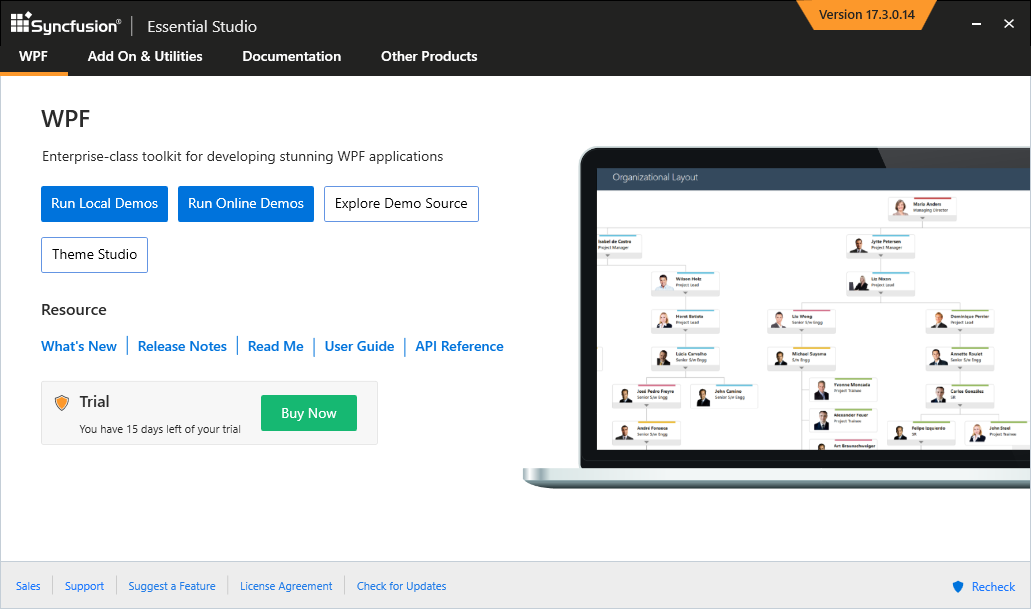
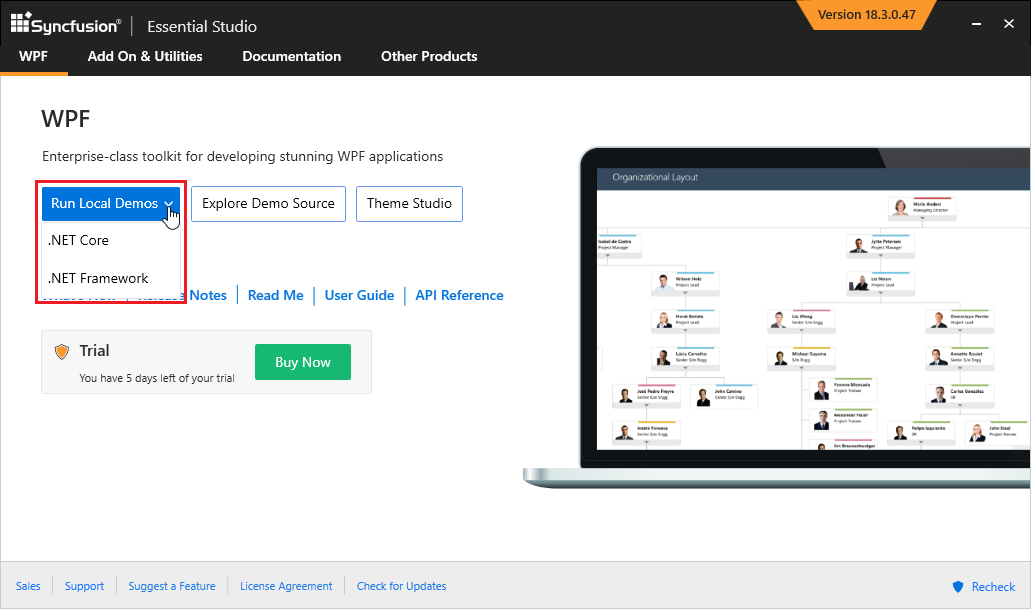
Latest source merged from Syncfusion

Changed region(s): [[0.031, 0.2808, 0.4966, 0.5304], [0.031, 0.5616, 0.4966, 0.7176], [0.7759, 0.0, 0.9001, 0.0312]]

diff --git a/wpf/samples.md b/wpf/samples.md
@@ -7,13 +7,13 @@ control: Featured Samples
 documentation: ug
 ---
 
-# Featured Samples 
+# Featured Samples for Syncfusion WPF Controls
 
 ## Syncfusion WPF Controls Panel
 
 To explore Syncfusion WPF controls and components, Open `Syncfusion WPF Controls Panel` by searching it from start and open. 
 
-![WFP Control Panel Search](Guidetorunthesamples_images/wpf-control-panel-search.png)
+![WPF Control Panel Search](Guidetorunthesamples_images/wpf-control-panel-search.png)
 
 In another way, Open the Control Panel from the following installed location,
 
@@ -25,22 +25,37 @@ N> In above section, Latest Essential Studio version details has been provided. 
 
 ## WPF Sample Browser
 
-To explore the locally installed demos, click `Run Local Demos` which will open `WPF Sample Browser`.
+To explore the locally installed demos, click `Run Local Demos` and select either `.NET Core` or `.NET FrameWork` which will open `WPF Sample Browser`.
 
 ![Syncfusion WPF Sample Browser](Guidetorunthesamples_images/syncfusion-wpf-sample-browser.PNG)
 
 ## Offline Samples
 
-`Syncfusion WPF Sample Browser` compile and launch the samples installed by Syncfusion installer. The samples are available in the following installed location where you can make changes and further exploration of controls.
+The Offline samples are available in the following installed location where you can make changes and further exploration of controls.
 
 C:\Users\Public\Documents\Syncfusion\WPF\{{ site.releaseversion }}\
 
+The offline samples can also be explored directly from `Syncfusion WPF Sample Browser` and opened in Visual Studio by run the required sample and click `Open source code in visual studio` button.
+
+![Exploring Syncfusion WPF Samples from Syncfusion WPF Sample Browser](Guidetorunthesamples_images/Exploring-syncfusion-wpf-Showcase-sample-from-SB.PNG)
+
+### Offline Showcase Samples
+
+To explore any individual showcase sample from `Syncfusion WPF Sample Browser`, Click `Explore Demo Source` and navigate to `showcase` folder.
+
+![Exploring Syncfusion WPF Showcase Samples](Guidetorunthesamples_images/Exploring-syncfusion-wpf-Showcase-sample.PNG)
+
+N> To run the individual control demos, please refer the instruction from [Running Individual Control Demos](https://github.com/syncfusion/wpf-demos#running-individual-control-demos). 
+
 ## Online Samples
 
-To explore the online [samples](https://wpf.syncfusion.com/samples.html) click `Ru Online Demos` in `Syncfusion WPF Controls Panel` that navigates to `ClickOnce` download. 
+* Download and install `.NetCore` demos from [App Center](https://install.appcenter.ms/orgs/syncfusion-demos/apps/wpf-demos/distribution_groups/release).
+* Download and install `.Net Framework` demos from [Microsoft Store](https://www.microsoft.com/en-us/p/syncfusion-wpf-controls-examples/9n99kdhrff6g?activetab=pivot:overviewtab).
 
-## GitHub Demos
+## Download demos from online (Clone from github repository)
 
-You can explore Syncfusion WPF controls using [GitHub WPF demos](https://github.com/syncfusion/wpf-demos) where all wpf demos are configured using `NuGet` to run without installing Syncfusion WPF Studio. 
+You can explore Syncfusion WPF controls using [GitHub WPF demos](https://github.com/syncfusion/wpf-demos) where all wpf demos are configured using `NuGet` to run without installing Syncfusion WPF Studio.
 
-N> Explore Syncfusion Controls in [GitHub](https://github.com/syncfusion/wpf-demos).
+### Download showcase demos from online
+
+You can explore showcase demos from [GitHub WPF demos](https://github.com/syncfusion/wpf-demos/tree/master/showcase).
